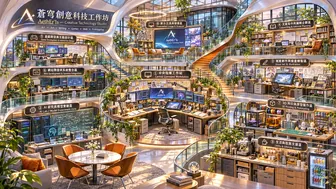
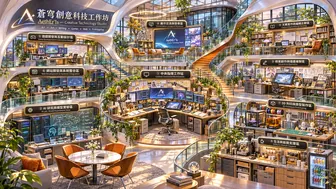
Redraw the nine zone signs as vector art with correct names
The painted signs had malformed glyphs. Each sign is rebuilt as SVG (text
outlined from Noto Sans CJK TC, line icons, brass rim) and projected onto the
original sign's perspective. The signs are baked into the scene images and also
drawn as a screen-space SVG layer, so they stay sharp at every zoom level.

Claude-Session: https://claude.ai/code/session_01E22prNv542mFoL1wqk6yTF

diff --git a/index.html b/index.html
@@ -80,6 +80,7 @@ ol,ul{margin:0;padding:0;list-style:none}
 .chip::before{content:"";width:calc(6px*var(--inv));height:calc(6px*var(--inv));border-radius:50%;background:var(--amber);box-shadow:0 0 0 0 rgba(243,184,103,.7);animation:ping 2.4s infinite}
 #stage.is-ov .chip{opacity:1}
 @keyframes ping{0%{box-shadow:0 0 0 0 rgba(243,184,103,.7)}70%{box-shadow:0 0 0 calc(7px*var(--inv)) rgba(243,184,103,0)}100%{box-shadow:0 0 0 0 rgba(243,184,103,0)}}
+#signsLayer{position:fixed;inset:0;width:100%;height:100%;pointer-events:none;overflow:visible}
 #dust{position:fixed;inset:0;pointer-events:none}
 .vignette{position:fixed;inset:0;pointer-events:none;background:radial-gradient(120% 90% at 50% 45%,transparent 55%,rgba(4,7,16,.55) 100%)}
 
@@ -363,6 +364,7 @@ ol,ul{margin:0;padding:0;list-style:none}
       <div id="hits"></div>
     </div>
   </div>
+  <svg id="signsLayer" aria-hidden="true"><defs><clipPath id="winClip"><rect id="winClipRect" x="0" y="0" width="1672" height="941"/></clipPath></defs><g id="signsG"><g id="signsBody" clip-path="url(#winClip)"></g></g></svg>
   <canvas id="dust" aria-hidden="true"></canvas>
   <div class="vignette" aria-hidden="true"></div>
 
@@ -594,6 +596,12 @@ function renderStop(s, i){
 const $ = id => document.getElementById(id);
 const stage = $('stage'), win = $('win'), sharp = $('sharp'), panel = $('panel');
 const framesEl = $('frames'), hitsEl = $('hits'), tip = $('tip'), miniView = $('miniView');
+const signsG = $('signsG'), winClipRect = $('winClipRect');
+fetch('signs.svg').then(r => r.ok ? r.text() : Promise.reject(r.status)).then(t => {
+  const doc = new DOMParser().parseFromString(t, 'image/svg+xml');
+  const body = $('signsBody');
+  [...doc.documentElement.childNodes].forEach(n => body.appendChild(document.importNode(n, true)));
+}).catch(() => {}); // the scene images already carry the same signs
 const reduce = matchMedia('(prefers-reduced-motion: reduce)').matches;
 let isMobile = false, cur = -1, seen = new Set();
 
@@ -695,6 +703,11 @@ function apply(c, r, now){
   win.style.transform = `translate(${r.x}px,${r.y}px)`; win.style.width = r.w + 'px'; win.style.height = r.h + 'px';
   win.style.borderRadius = (r === FULL || (r.w >= IW - 1 && r.h >= IH - 1)) ? '0' : '12px';
   sharp.style.transform = `translate(${-r.x}px,${-r.y}px)`;
+  // vector signs drawn in screen space so they stay sharp at any zoom
+  signsG.setAttribute('transform', `matrix(${s.toFixed(5)} 0 0 ${s.toFixed(5)} ${tx.toFixed(2)} ${ty.toFixed(2)})`);
+  const full = r === FULL || (r.w >= IW - 1 && r.h >= IH - 1);
+  winClipRect.setAttribute('x', r.x); winClipRect.setAttribute('y', r.y); winClipRect.setAttribute('width', r.w); winClipRect.setAttribute('height', r.h);
+  winClipRect.setAttribute('rx', full ? 0 : 12);
   // minimap viewport
   const mv = miniView;
   const mx = -tx / s, my = -ty / s, mw = M.VW / s, mh = M.VH / s, k2 = 112 / IW;

diff --git a/README.md b/README.md
@@ -32,7 +32,8 @@
 ## 檔案
 
 - `index.html`：整個網站（HTML、CSS、JavaScript 都在同一個檔案）
-- `office.webp`：辦公室場景圖（放大用的 2 倍版本）
+- `office.webp`：辦公室場景圖（放大用的 2 倍版本，九塊區域招牌已換成正確文字）
+- `signs.svg`：九塊區域招牌的向量檔，網站放大時用它疊在場景上，文字不會模糊
 - `office-bg.webp`：景深模糊背景
 - `office-thumb.webp`：小地圖縮圖
 - `og.jpg`：社群分享預覽圖
